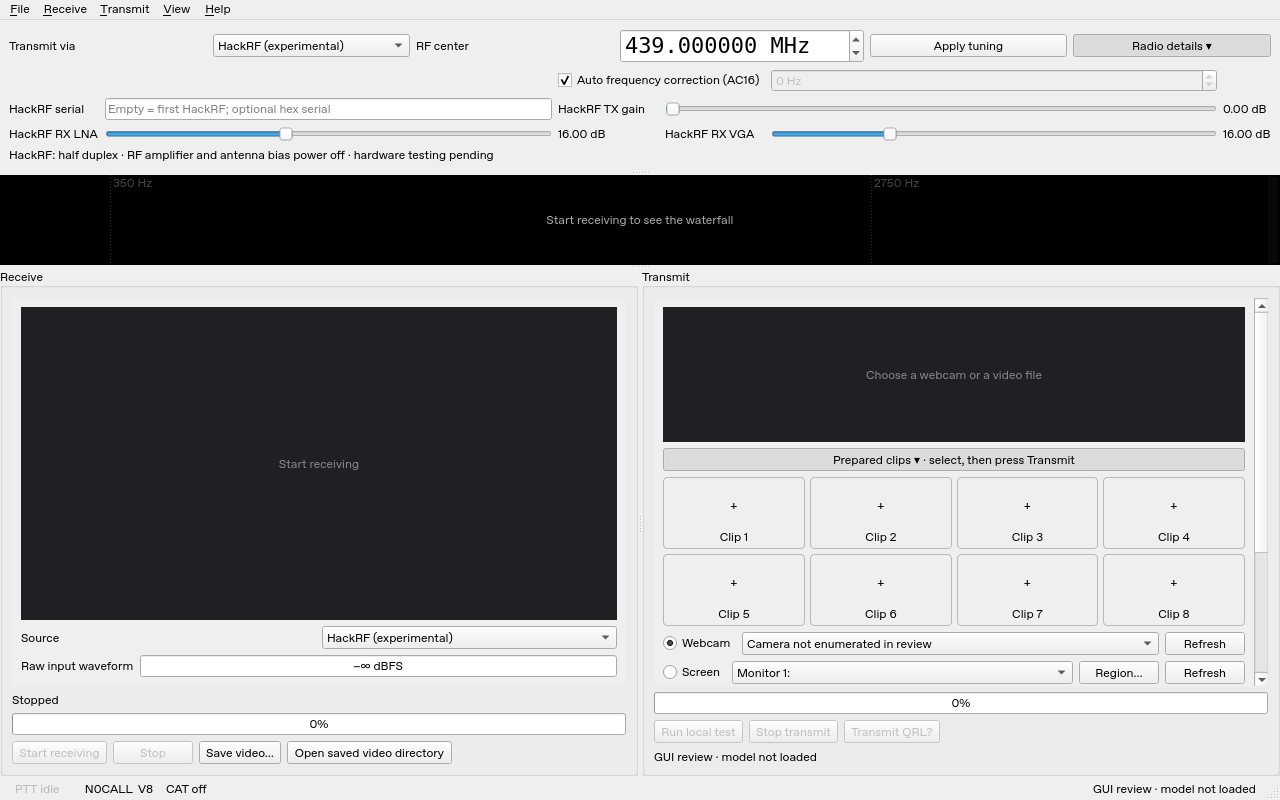
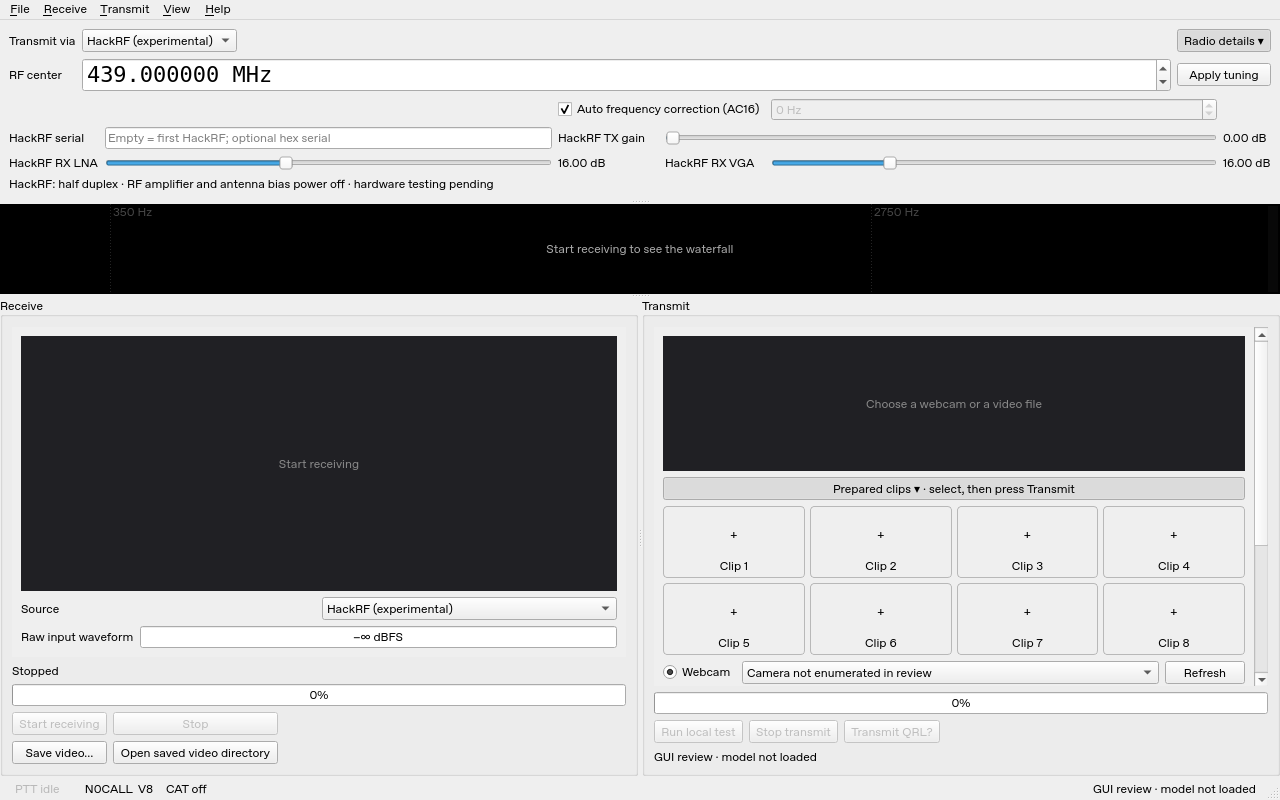
Keep station controls within laptop width on Windows and large fonts

diff --git a/tests/test_gui_usability.py b/tests/test_gui_usability.py
@@ -290,3 +290,44 @@ def test_manual_receive_and_tuning_preserve_unconfirmed_off_on_cancel(window, mo
     assert not calls
     assert panel.ptt_uncertain
     assert "UNKNOWN" in window.ptt_lamp.text()
+
+
+@pytest.mark.parametrize("style", ["Windows", "Fusion"])
+def test_laptop_layout_fits_large_native_metrics_with_all_actions_visible(window, style):
+    from PySide6.QtGui import QFont
+    from PySide6.QtWidgets import QStyleFactory
+
+    original_style = _APP.style().objectName()
+    original_font = QFont(_APP.font())
+    try:
+        native_style = QStyleFactory.create(style)
+        assert native_style is not None
+        _APP.setStyle(native_style)
+        # Exposes the single-row minimum-width bug on Linux too; does not
+        # reduce Windows font sizes or loosen the 1280 x 800 requirement.
+        _APP.setFont(QFont("DejaVu Sans", 18))
+        _APP.processEvents()
+        window.resize(1280, 800)
+        _APP.processEvents()
+        assert window.minimumSizeHint().width() <= 1280
+        assert window.width() == 1280
+        assert window.height() == 800
+        controls = (
+            window.radio.apply, window.radio.advanced_toggle,
+            window.tx.send_button, window.tx.cancel_button, window.tx.qrl_button,
+            window.rx.start_button, window.rx.stop_button,
+            window.rx.save_button, window.rx.open_saved_videos_button,
+        )
+        rectangles = []
+        for control in controls:
+            point = control.mapTo(window, QPoint(0, 0))
+            rect = control.rect().translated(point)
+            assert window.rect().contains(rect), control.text()
+            assert control.width() >= control.minimumSizeHint().width(), control.text()
+            assert control.height() >= control.minimumSizeHint().height(), control.text()
+            assert not any(rect.intersects(other) for other in rectangles), control.text()
+            rectangles.append(rect)
+    finally:
+        _APP.setFont(original_font)
+        _APP.setStyle(QStyleFactory.create(original_style))
+        _APP.processEvents()

diff --git a/aetv/gui/radio_panel.py b/aetv/gui/radio_panel.py
@@ -61,16 +61,19 @@ class RadioPanel(QWidget):
         grid.addWidget(QLabel("Transmit via"), 0, 0)
         grid.addWidget(self.backend, 0, 1)
         self.frequency_label = QLabel("Operating frequency")
-        grid.addWidget(self.frequency_label, 0, 2)
-        grid.addWidget(self.frequency, 0, 3)
+        # Keep routing and tuning on separate rows. Native Windows styles
+        # and larger fonts can otherwise force the window wider than 1280 px.
+        grid.addWidget(self.frequency_label, 1, 0)
+        grid.addWidget(self.frequency, 1, 1, 1, 2)
         self.advanced_toggle = QPushButton("Radio details ▸")
         self.advanced_toggle.setCheckable(True)
-        grid.addWidget(self.apply, 0, 4)
-        grid.addWidget(self.advanced_toggle, 0, 5)
+        grid.addWidget(self.apply, 1, 3)
+        grid.addWidget(self.advanced_toggle, 0, 3)
+        grid.setColumnStretch(2, 1)
         self.advanced = QWidget()
         details = QGridLayout(self.advanced)
         details.setContentsMargins(0, 0, 0, 0)
-        grid.addWidget(self.advanced, 1, 0, 1, 6)
+        grid.addWidget(self.advanced, 2, 0, 1, 4)
         grid = details
         self.pluto_address_label = QLabel("Pluto address")
         grid.addWidget(self.pluto_address_label, 0, 0)

diff --git a/aetv/gui/rx_panel.py b/aetv/gui/rx_panel.py
@@ -15,6 +15,7 @@ from PySide6.QtWidgets import (
     QCheckBox,
     QComboBox,
     QHBoxLayout,
+    QGridLayout,
     QLabel,
     QLineEdit,
     QDoubleSpinBox,
@@ -551,12 +552,14 @@ class ReceivePanel(QWidget):
         auto_row = QHBoxLayout()
         auto_row.addWidget(self.auto_kiwi)
         auto_row.addStretch(1)
-        buttons = QHBoxLayout()
-        buttons.addWidget(self.start_button)
-        buttons.addWidget(self.stop_button)
-        buttons.addWidget(self.save_button)
-        buttons.addWidget(self.open_saved_videos_button)
-        buttons.addStretch(1)
+        # These actions are pinned outside the scroll area. Two short rows
+        # keep every button accessible with native Windows/large-font metrics.
+        buttons = QGridLayout()
+        buttons.addWidget(self.start_button, 0, 0)
+        buttons.addWidget(self.stop_button, 0, 1)
+        buttons.addWidget(self.save_button, 1, 0)
+        buttons.addWidget(self.open_saved_videos_button, 1, 1)
+        buttons.setColumnStretch(2, 1)
         strip.addLayout(row1)
         strip.addLayout(self.raw_meter_row)
         strip.addLayout(self.playback_row)

diff --git a/docs/gui-usability-20261011.md b/docs/gui-usability-20261011.md
@@ -72,3 +72,13 @@ PTT uncertainty is latched until an explicit operator acknowledgment that the ra
 After adding the uncertainty acknowledgment regressions, the same combined command passed **144 tests**. The warning screenshot remains visually unchanged; its enabled actions now enter the confirmation gate before doing work. The rendering script explicitly simulates acknowledgment when moving from that injected failure to its next independent screenshot scenario.
 
 Ownership guarantees here cover the TX producer and in-flight watchdog OFF command. Existing nested screen/camera capture shutdown still uses bounded waits; a hung OS/device capture thread is not guaranteed to terminate and can require external process/device shutdown.
+
+## Windows CI sizing follow-up
+
+The first PR CI run exposed a native Windows minimum-width difference: the
+window expanded to 1290 px rather than the required 1280 px. The radio header
+and pinned receive-action strip now use compact two-row grids, keeping buttons
+fully visible without weakening the laptop-fit requirement. New tests exercise
+Windows and Fusion styles at 18 pt and check exact 1280 × 800 size, minimum
+button sizes, containment and non-overlap. The affected suite passed **161
+tests** locally; actual Windows CI is rerun on the follow-up commit.

diff --git a/docs/final-validation-20261011.md b/docs/final-validation-20261011.md
@@ -72,3 +72,13 @@ full-duplex operation. No inference defaults were changed.
 
 All changes were tested locally before opening a draft PR. Publication and CI
 status are reported separately; no merge, release or deployment was performed.
+
+## CI follow-up to the initial publication
+
+The initial draft-PR commit passed Linux CI with **703 passed, 2 skipped**,
+including all six Torch-dependent modules, plus the package build. Windows CI
+reported **685 passed, 19 skipped**, with one failure: its native style expanded
+the default window to 1290 px. Two compact control-row grids fix the width
+pressure without loosening the 1280 px assertion. Windows/Fusion large-font
+regressions and the affected suite passed **161 tests** locally. Both CI jobs
+are rerun for that follow-up; see the draft PR for their latest status.
